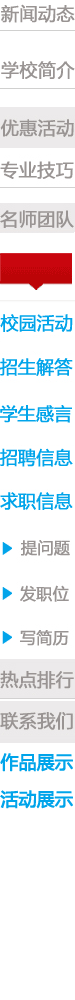
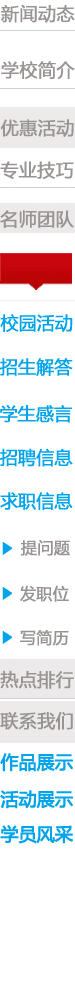
2.18

Changed region(s): [[0.2667, 0.806, 0.96, 0.868], [0.0, 0.806, 0.24, 0.868]]

diff --git a/Projects/Hammer/App_Themes/Site/index.css b/Projects/Hammer/App_Themes/Site/index.css
@@ -73,10 +73,7 @@ a:hover
 	display: inline-block;
 	color: #333;
 }
-#menu li a:hover, #menu ul li.current a,
-#menu ul li.current2 a,#menu ul li.current3 a,
-#menu ul li.current4 a,#menu ul li.current5 a,
-#menu ul li.current7 a,#menu ul li.current6 a
+#menu li a:hover, #menu ul li.current a, #menu ul li.current2 a, #menu ul li.current3 a, #menu ul li.current4 a, #menu ul li.current5 a, #menu ul li.current7 a, #menu ul li.current6 a
 {
 	background: #00a4ea;
 	color: #FFFFFF;
@@ -543,12 +540,12 @@ a:hover
 	float: left;
 	padding-top: 2px;
 	margin-left: 2px;
-	width: 193px;
+	width: 189px;
 }
 .lls1 ul li img
 {
-	width: 190px;
-	height: 266px;
+	width: 187px;
+	height: 216px;
 }
 .lls1 ul li p
 {
@@ -559,21 +556,28 @@ a:hover
 .lls2
 {
 	width: 958px;
-	height: 301px;
 	border: #d0d0d0 1px solid;
 	float: left;
+}
+.lls2 ul
+{
+	padding: 2px;
 }
 .lls2 ul li
 {
 	float: left;
-	padding-top: 2px;
-	margin-left: 2px;
-	width: 193px;
+	width: 223px;
+	margin-right: 14px;
+	margin-bottom: 14px;
+	height: 180px;
+	overflow: hidden;
+	display: block;
+	font-size: 12px;
 }
 .lls2 ul li img
 {
-	width: 190px;
-	height: 266px;
+	width: 223px;
+	height: 150px;
 }
 .lls2 ul li p
 {
@@ -1021,19 +1025,21 @@ a:hover
 	top: 30px;
 }
 
-.zuopinzhan .title {
+.huodong .title, .xueyuan .title, .zuopinzhan .title
+{
 	height: 42px;
 	padding: 0 10px;
 	border-bottom: 1px #D2D2D2 solid;
 }
-.zuopinzhan .title h3 {
+.zuopinzhan .title h3
+{
 	float: left;
 	width: 95px;
 	height: 42px;
 	line-height: 42px;
 	background: url(images/title.png) 0 -740px no-repeat;
 }
-.zuopinzhan .title .more
+.zuopinzhan .title .more,.huodong .title .more, .xueyuan .title .more
 {
 	width: 40px;
 	float: right;
@@ -1042,22 +1048,85 @@ a:hover
 }
 
 
-.huodong .title {
-	height: 42px;
-	padding: 0 10px;
-	border-bottom: 1px #D2D2D2 solid;
-}
-.huodong .title h3 {
+
+.huodong .title h3
+{
 	float: left;
 	width: 95px;
 	height: 42px;
 	line-height: 42px;
 	background: url(images/title.png) 0 -777px no-repeat;
 }
-.huodong .title .more
+.xueyuan .title h3
 {
-	width: 40px;
-	float: right;
+	float: left;
+	width: 95px;
 	height: 42px;
 	line-height: 42px;
+	background: url(images/title.png) 0 -813px no-repeat;
+}
+
+.page
+{
+	width: 100%;
+	margin: 10px auto;
+	clear: both;
+	text-align: center;
+}
+.page a
+{
+	display: inline-block;
+	min-width: 15px;
+	height: 35px;
+	padding: 0 10px;
+	line-height: 35px;
+	border: #c6c6c6 1px solid;
+	margin-right: 3px;
+	color: #00a4ea;
+	font-weight: bold;
+}
+.page .currentpage
+{
+	background: #00a4ea;
+	color: #FFF;
+}
+#container dl dd{
+	margin:10px 0;
+	
+	}
+#container dd span{
+	width:120px;
+	display:inline-block;
+	text-align:left;
+	font-size:14px;
+	}	
+#container dd input {
+    border: 1px solid #BEBEBE;
+    font-size: 14px;
+    height: 38px;
+    line-height: 38px;
+    margin-right: 10px;
+    text-align: left;
+    vertical-align: middle;
+    width: 168px;
+	padding:0 5px;
+}
+#container dd textarea {
+    border: 1px solid #BEBEBE;
+    font-size: 14px;
+    height: 98px !important;
+    line-height: 38px;
+    margin-bottom: 20px;
+    margin-right: 10px;
+    text-align: left;
+    vertical-align: top;
+    width: 408px !important;
+}
+#container dd input#submit
+{
+	background: #00a4ea;
+	text-align: center;
+	color: #ffffff;
+	font-size: 18px;
+	cursor: pointer;
 }

diff --git a/Projects/Hammer/Controllers/HomeController.cs b/Projects/Hammer/Controllers/HomeController.cs
@@ -28,8 +28,9 @@ namespace EasyUI.Controllers
 			ViewBag.Bjys = new Helpers.SystemHelper().GetArticleImageList(9).Take(7);
 			ViewBag.Xxsj = new Helpers.SystemHelper().GetArticleImageList(10).Take(7);
 			//图片作品
-			ViewBag.ZuoPin = new Helpers.SystemHelper().GetArticleImageList(18).Take(4);
-			ViewBag.HuodongZhanShi = new Helpers.SystemHelper().GetArticleImageList(19).Take(4);
+			ViewBag.ZuoPin = new Helpers.SystemHelper().GetArticleImageList(18).Take(5);
+			ViewBag.HuodongZhanShi = new Helpers.SystemHelper().GetArticleImageList(19).Take(8);
+			ViewBag.XueSheng = new Helpers.SystemHelper().GetArticleImageList(7).Take(8);
 
 			ViewBag.NewsFir = new Helpers.SystemHelper().GetArticleImageList(2).FirstOrDefault();
 			ViewBag.News = new Helpers.SystemHelper().GetArticleImageList(2).Skip(1).Take(9);
